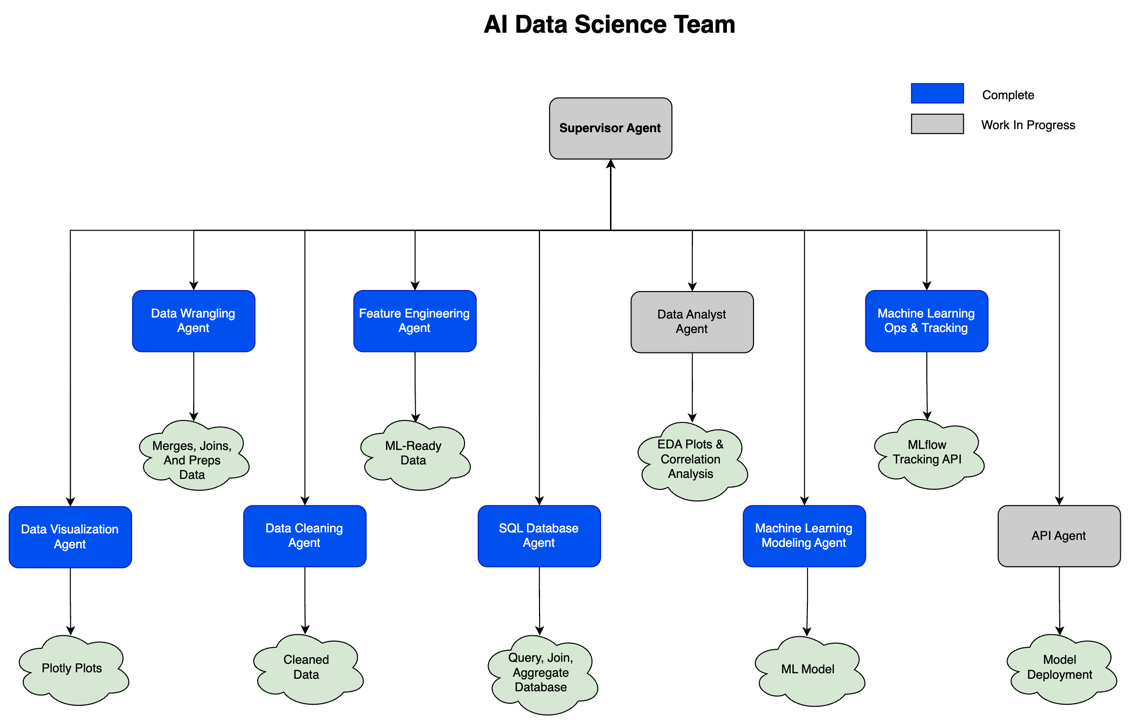
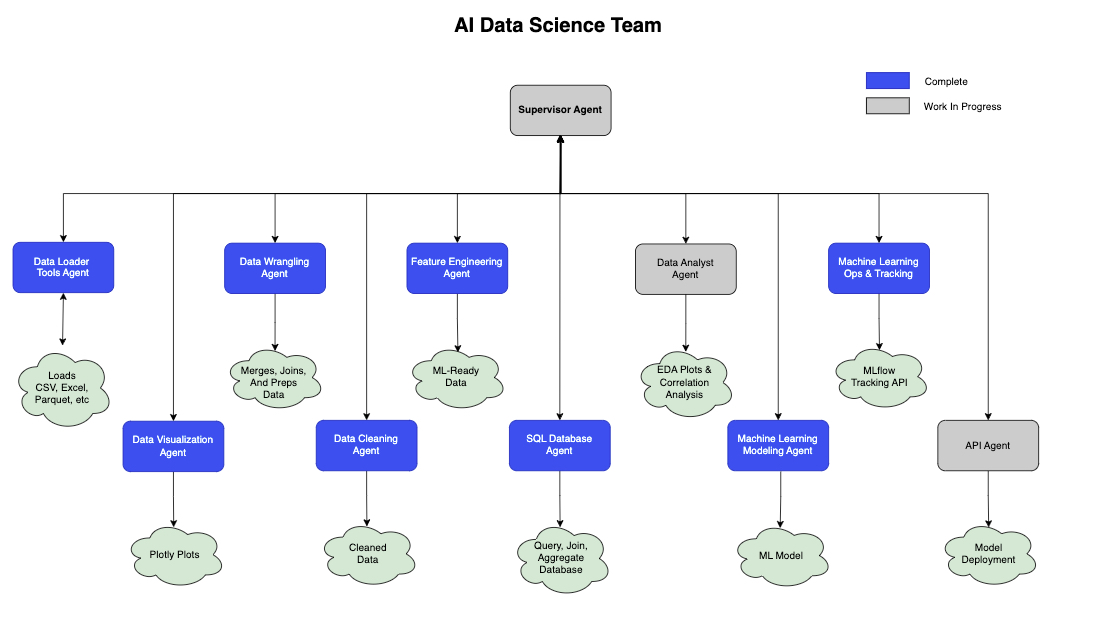
update readme #40

diff --git a/README.md b/README.md
@@ -46,8 +46,8 @@ The AI Data Science Team of Copilots includes Agents that specialize data cleani
     - [Apps Available Now](#apps-available-now)
       - [🔥 Agentic Applications](#-agentic-applications)
     - [Agents Available Now](#agents-available-now)
+      - [Agents](#agents)
       - [🔥🔥 NEW! Machine Learning Agents](#-new-machine-learning-agents)
-      - [Data Science Agents](#data-science-agents-1)
       - [Multi-Agents](#multi-agents)
     - [Agents Coming Soon](#agents-coming-soon)
   - [Disclaimer](#disclaimer)
@@ -99,18 +99,21 @@ This is a top secret project I'm working on. It's a multi-agent data science app
 
 ### Agents Available Now
 
-#### 🔥🔥 NEW! Machine Learning Agents
-
-1. **🔥 H2O Machine Learning Agent:** Builds and logs 100's of high-performance machine learning models. [See Example](https://github.com/business-science/ai-data-science-team/blob/master/examples/ml_agents/h2o_machine_learning_agent.ipynb)
-2. **🔥 MLflow Tools Agent (MLOps):** This agent has 11+ tools for managing models, ML projects, and making production ML predictions with MLflow. [See Example](https://github.com/business-science/ai-data-science-team/blob/master/examples/ml_agents/mlflow_tools_agent.ipynb)
-
-#### Data Science Agents
+#### Agents
 
 1. **Data Wrangling Agent:** Merges, Joins, Preps and Wrangles data into a format that is ready for data analysis. [See Example](https://github.com/business-science/ai-data-science-team/blob/master/examples/data_wrangling_agent.ipynb)
 2. **Data Visualization Agent:** Creates visualizations to help you understand your data. Returns JSON serializable plotly visualizations. [See Example](https://github.com/business-science/ai-data-science-team/blob/master/examples/data_visualization_agent.ipynb)
 3. **🔥 Data Cleaning Agent:** Performs Data Preparation steps including handling missing values, outliers, and data type conversions. [See Example](https://github.com/business-science/ai-data-science-team/blob/master/examples/data_cleaning_agent.ipynb)
 4. **Feature Engineering Agent:** Converts the prepared data into ML-ready data. Adds features to increase predictive accuracy of ML models. [See Example](https://github.com/business-science/ai-data-science-team/blob/master/examples/feature_engineering_agent.ipynb)
 5. **🔥 SQL Database Agent:** Connects to SQL databases to pull data into the data science environment. Creates pipelines to automate data extraction. Performs Joins, Aggregations, and other SQL Query operations. [See Example](https://github.com/business-science/ai-data-science-team/blob/master/examples/sql_database_agent.ipynb)
+6. **Data Loader Tools Agent:** Loads data from various sources including CSV, Excel, Parquet, and Pickle files. [See Example](https://github.com/business-science/ai-data-science-team/blob/master/examples/data_loader_tools_agent.ipynb)
+
+
+#### 🔥🔥 NEW! Machine Learning Agents
+
+1. **🔥 H2O Machine Learning Agent:** Builds and logs 100's of high-performance machine learning models. [See Example](https://github.com/business-science/ai-data-science-team/blob/master/examples/ml_agents/h2o_machine_learning_agent.ipynb)
+2. **🔥 MLflow Tools Agent (MLOps):** This agent has 11+ tools for managing models, ML projects, and making production ML predictions with MLflow. [See Example](https://github.com/business-science/ai-data-science-team/blob/master/examples/ml_agents/mlflow_tools_agent.ipynb)
+
 
 #### Multi-Agents
 
